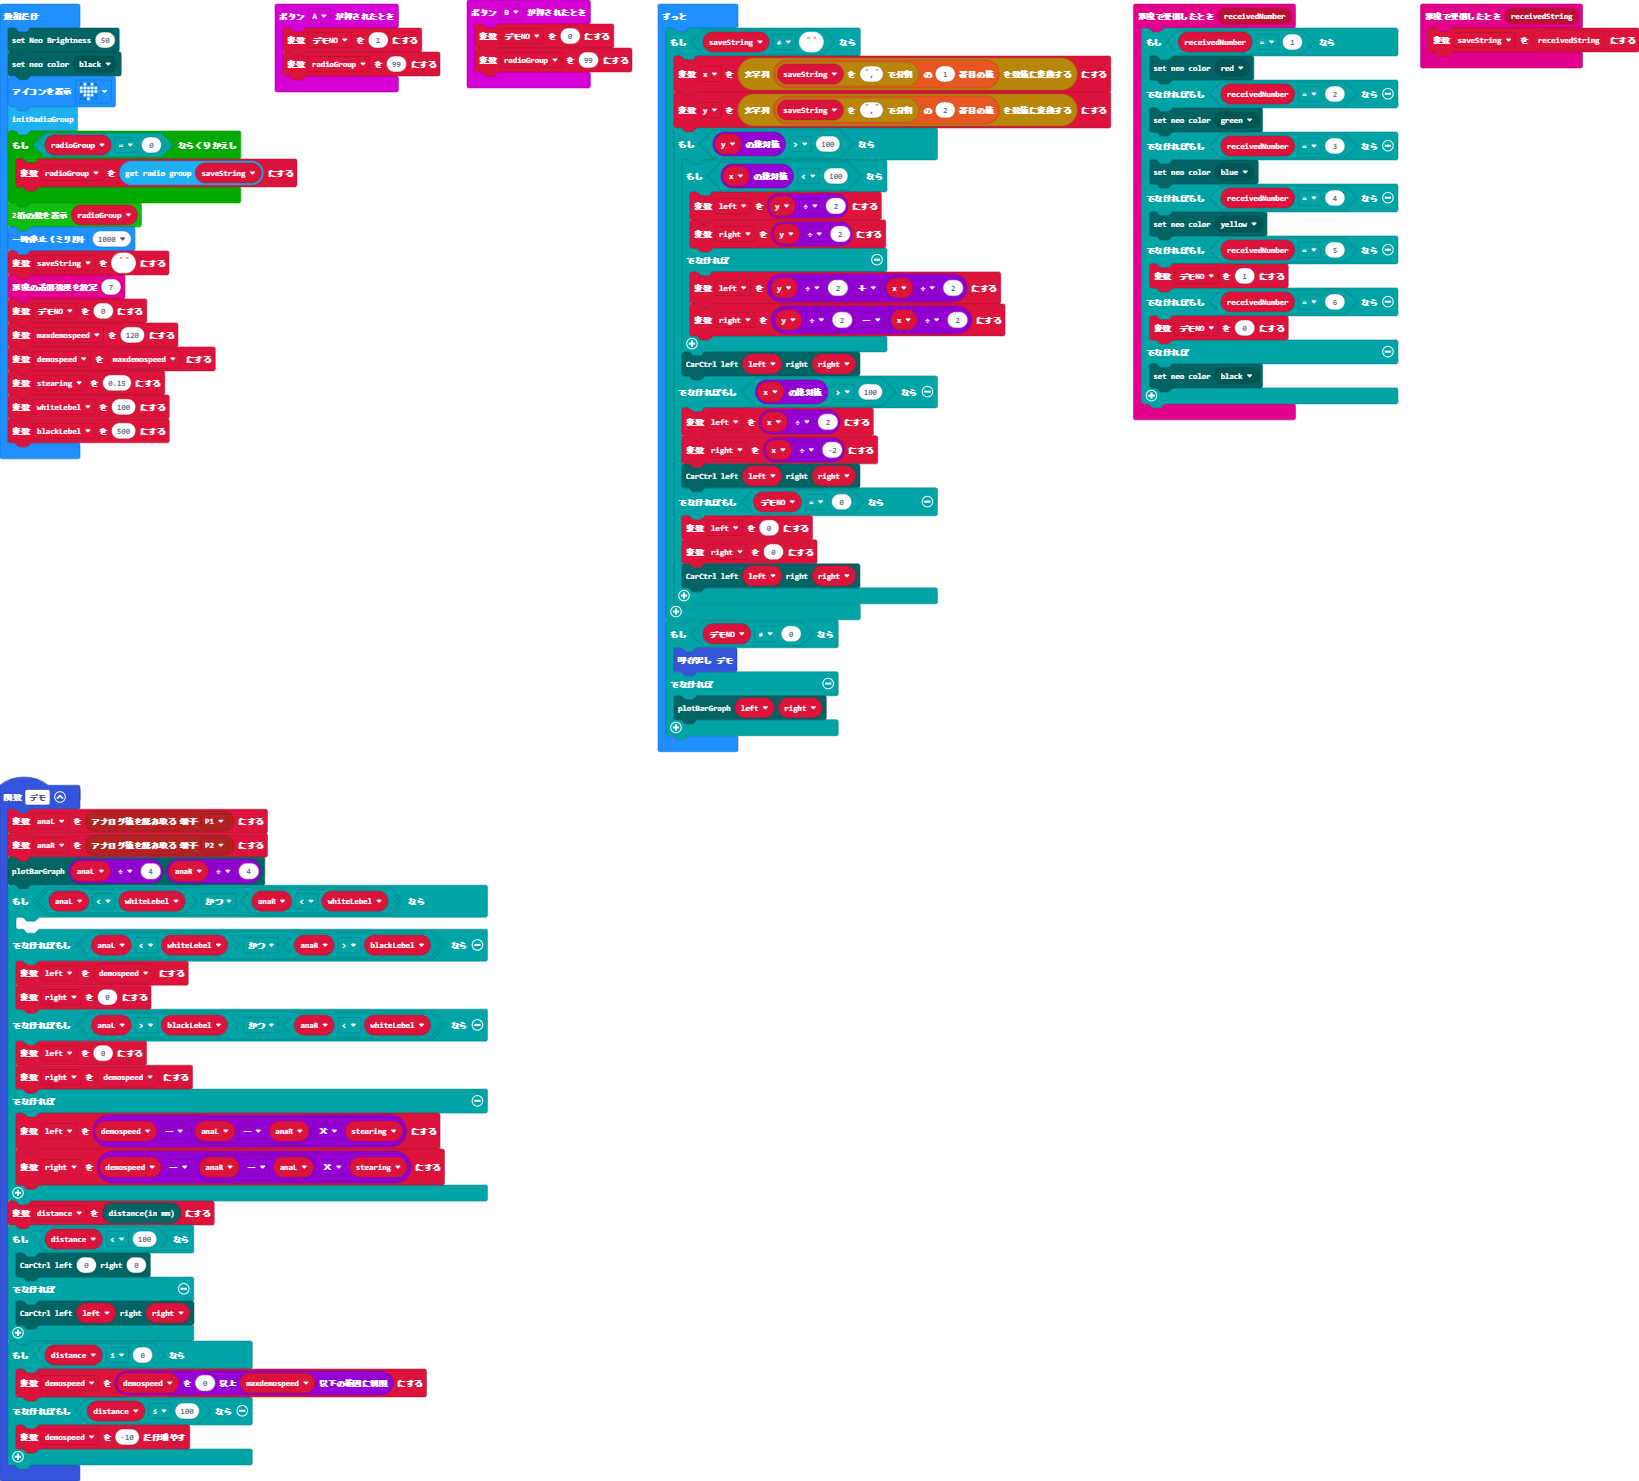
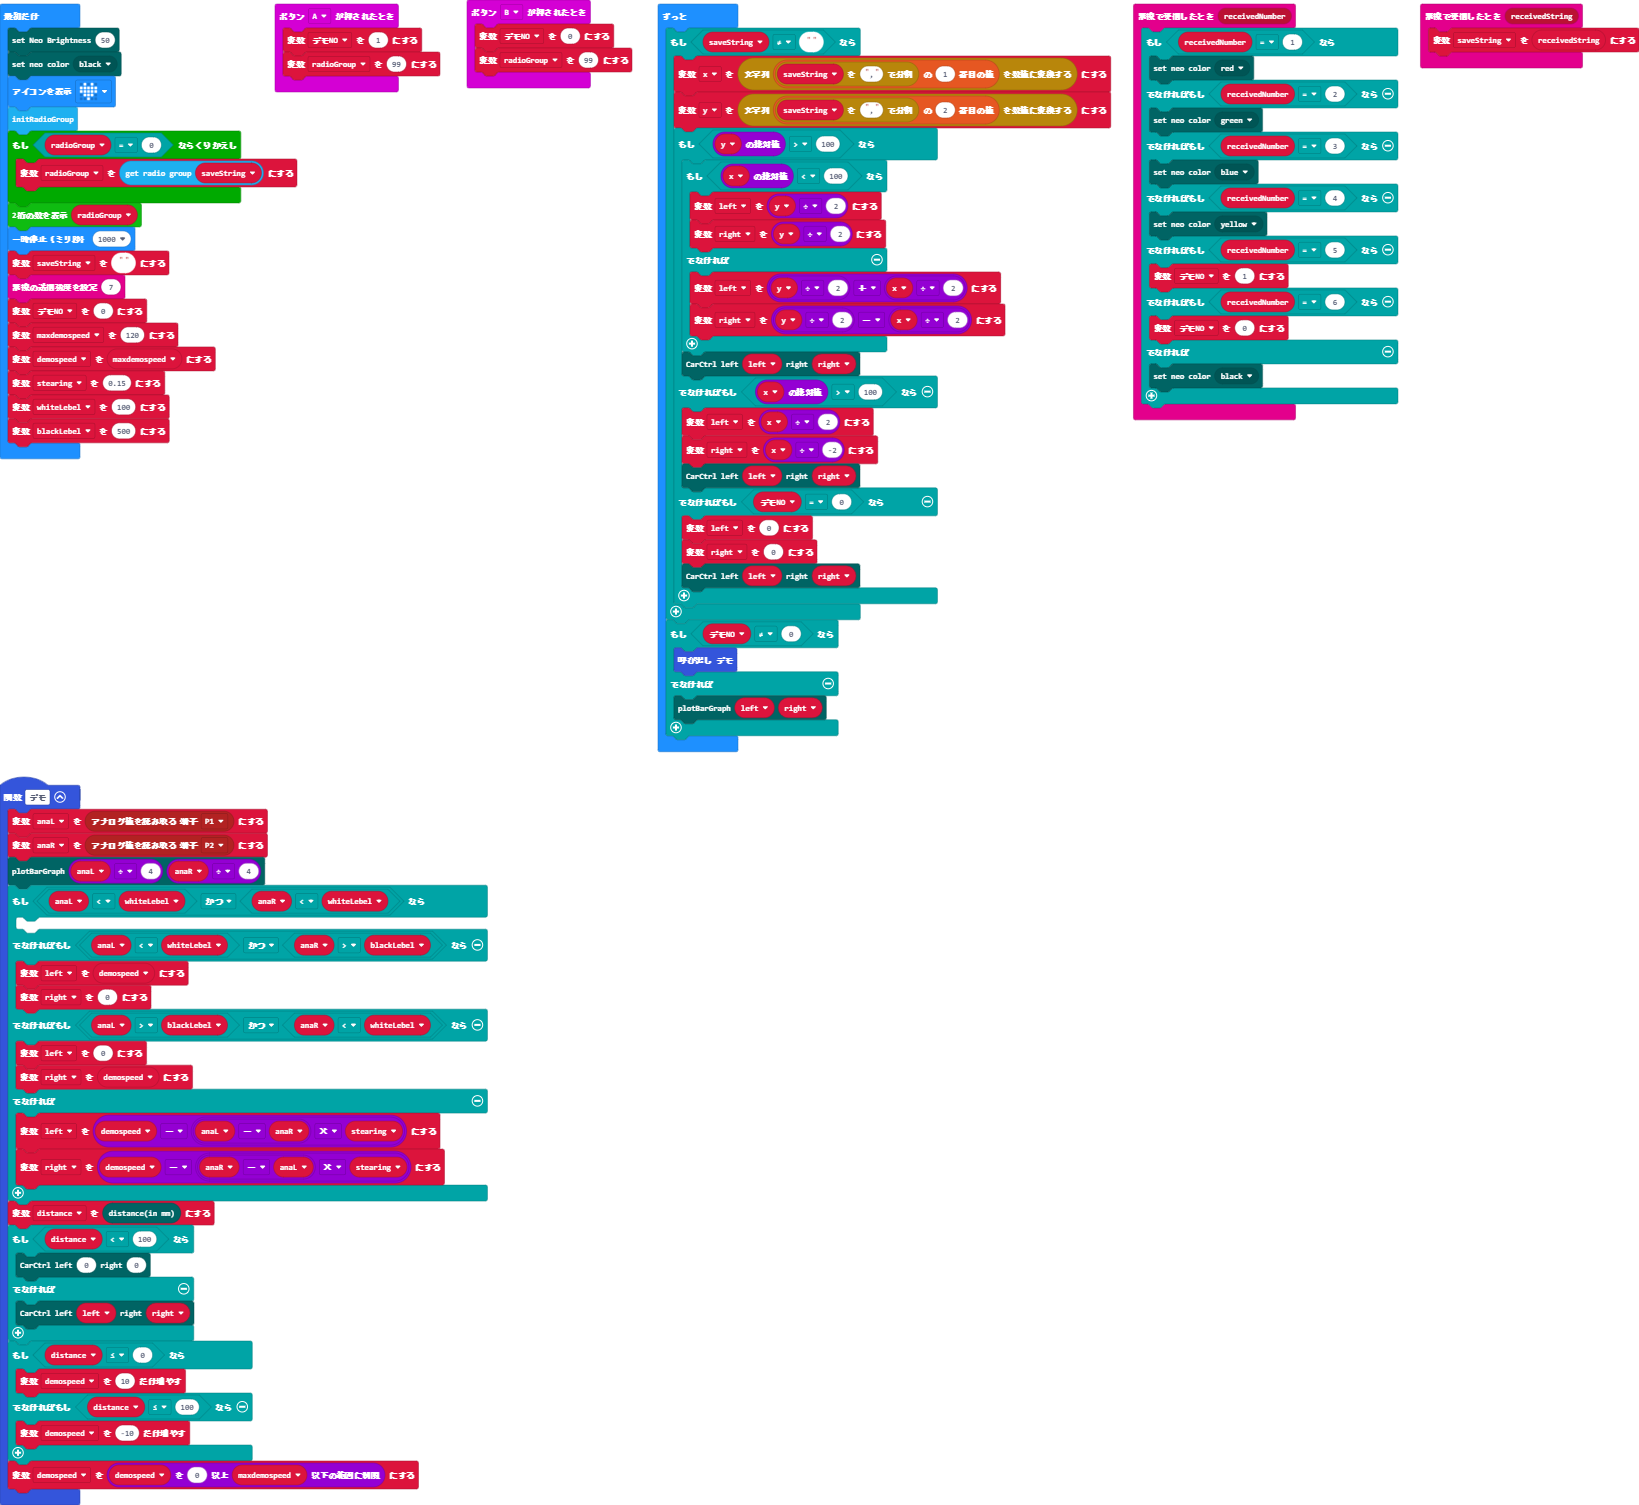
更新 main.blocks, main.ts

diff --git a/main.ts b/main.ts
@@ -21,10 +21,11 @@ function デモ () {
         porocar.carCtrl(left, right)
     }
     if (distance <= 0) {
-        demospeed = Math.constrain(demospeed, 0, maxdemospeed)
+        demospeed += 10
     } else if (distance <= 100) {
         demospeed += -10
     }
+    demospeed = Math.constrain(demospeed, 0, maxdemospeed)
 }
 radio.onReceivedNumber(function (receivedNumber) {
     if (receivedNumber == 1) {
